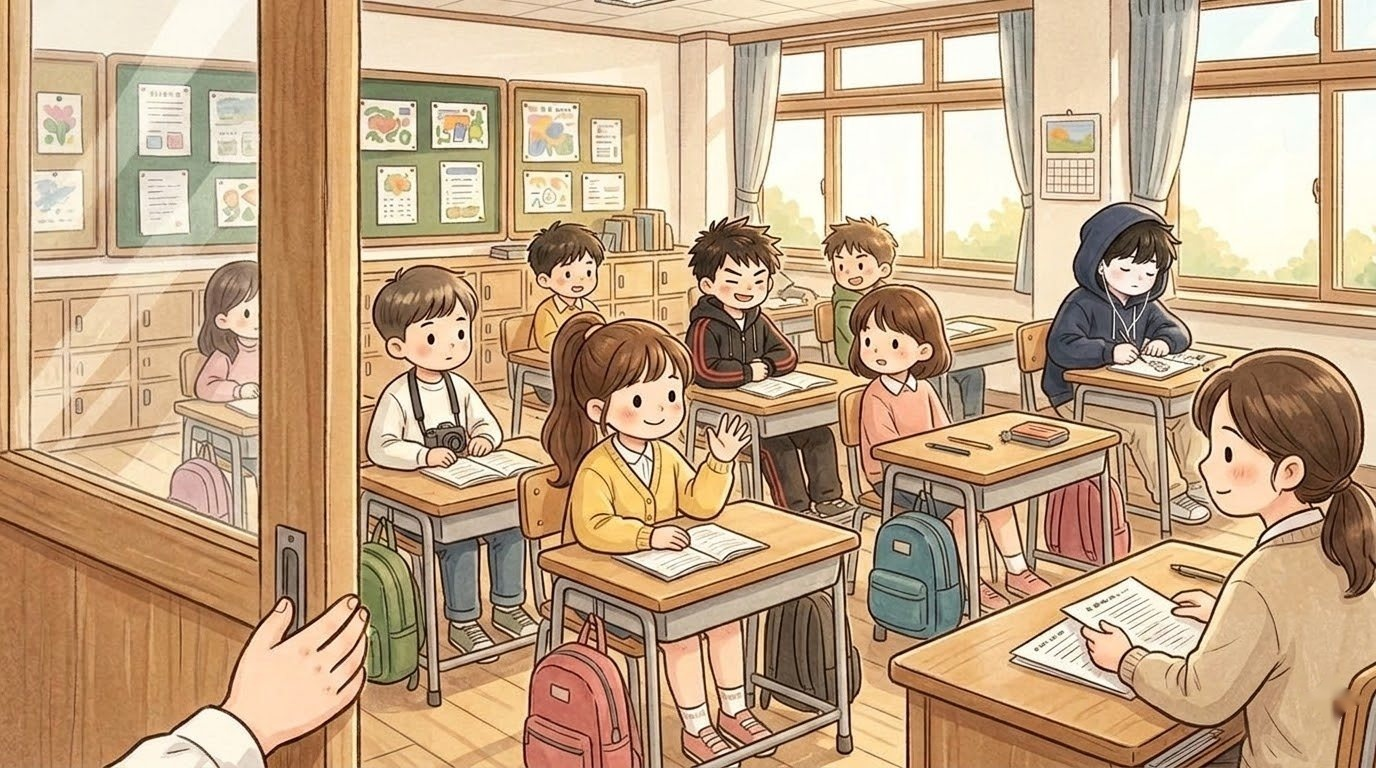
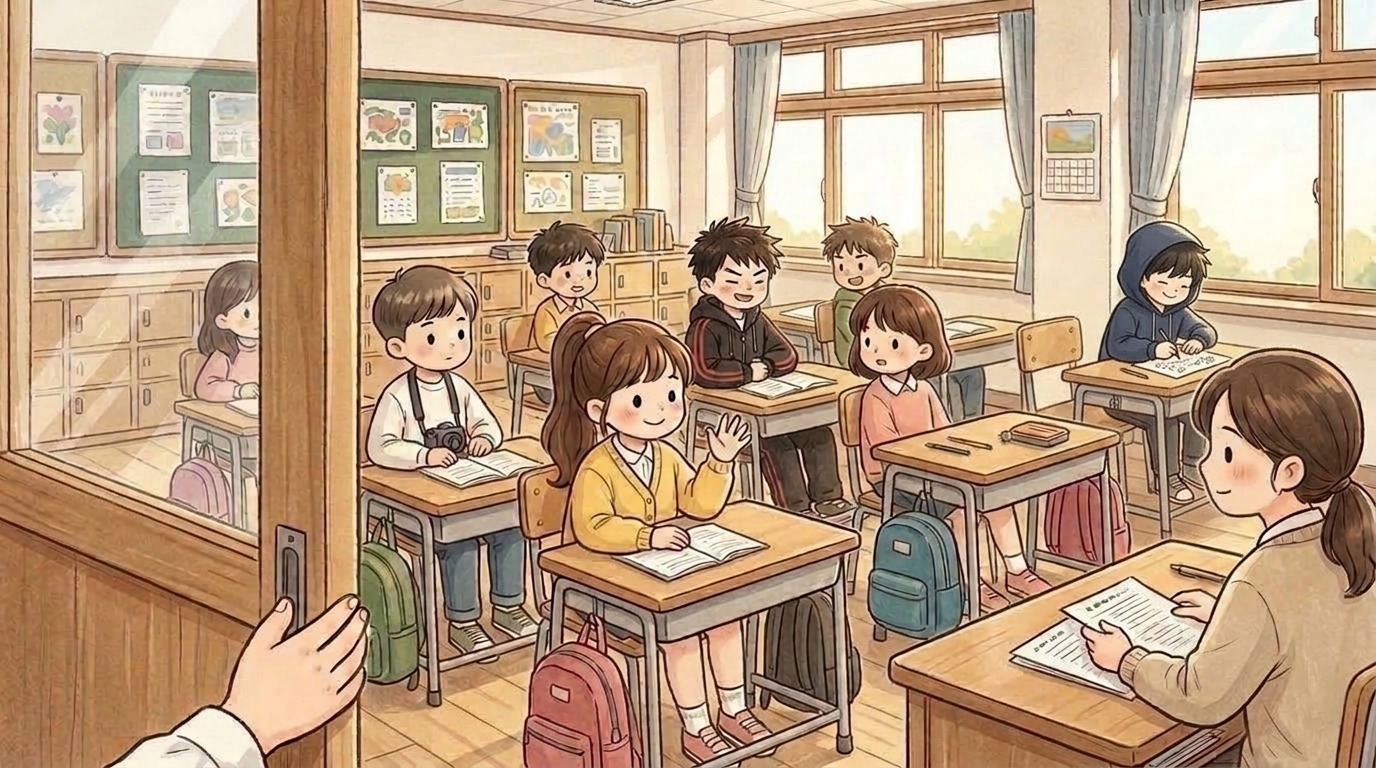
하늘 16일차(붙여도 돼?) 교실 들어서는 그림: 가운데 줄에 있던 하늘이를 대사대로 맨 뒤 창가 구석 자리로(API)

diff --git a/index.html b/index.html
@@ -119,14 +119,14 @@ body,button{word-break:keep-all;overflow-wrap:break-word}
 <div id="fader"></div>
 <script>
 // same address, newest version: if the page this phone has kept is older than the one online, fetch the new one and reopen
-const BUILD='1108215505';
+const BUILD='1108220446';
 try{fetch(location.pathname,{cache:'no-store'}).then(r=>r.text()).then(t=>{const m=t.match(/const BUILD='(\d+)'/);if(m&&m[1]!==BUILD&&sessionStorage.getItem('upd')!==m[1]){sessionStorage.setItem('upd',m[1]);fetch(location.pathname,{cache:'reload'}).then(()=>location.reload())}}).catch(()=>{})}catch(e){}
 </script>
-<script src="i18n.js?v=1108215505"></script>
-<script src="i18n_prologue_v2.js?v=1108215505"></script>
-<script src="day2/i18n_engine.js?v=1108215505"></script>
-<script src="day2/data.js?v=1108215505"></script>
-<script src="day3/data.js?v=1108215505"></script>
+<script src="i18n.js?v=1108220446"></script>
+<script src="i18n_prologue_v2.js?v=1108220446"></script>
+<script src="day2/i18n_engine.js?v=1108220446"></script>
+<script src="day2/data.js?v=1108220446"></script>
+<script src="day3/data.js?v=1108220446"></script>
 <script>
 // ---------- data ----------
 const MW=1672,MH=941,KID=180;
@@ -569,36 +569,36 @@ function pickHero(){const m=document.getElementById('modal'),c=document.getEleme
  c.innerHTML=`<h2>${tr('전학생 반장되기')}</h2><p>${tr('한국말이 아직 서툰 전학생,<br>반장 선거에 나가다.')}</p><p style="margin-top:14px">${tr('누구로 할까요?')}</p>${(()=>{const s=loadSave();return s&&s.day>=2&&s.mode===UI+'-'+LANG?`<p><button class="big" id="cont">${tr('{n}일차부터 이어 하기').replace('{n}',s.day)}</button></p>`:''})()}<div class="pick heroes"><button data-h="hero_f"><img src="faces/hero_f_smile.jpg" alt="여자 주인공">${heroName(1)}</button><button data-h="hero_m"><img src="faces/hero_m_smile.jpg" alt="남자 주인공">${heroName(0)}</button></div>`;
  m.classList.add('on');{const cb=document.getElementById('cont');if(cb)cb.onclick=()=>{const s=loadSave();HERO=s.hero;Object.assign(HEART,s.heart||{});(s.found||[]).forEach(k=>FOUND.add(k));HEART_D1={...HEART};chime();(typeof contGame==='function'?contGame(s):startDay(Math.min(s.day,Object.keys(window.D3||{}).length?3:2)))}}c.querySelectorAll('.pick button').forEach(b=>b.onclick=()=>{HERO=b.dataset.h;m.classList.remove('on');chime();bgm('day');load('home_am');say([['nar','','이사 온 다음 날 아침. 아직 풀지 못한 상자들이 쌓여 있다.'],['think','sad','(오늘부터 새 학교야. 여기 말도 아직 서툰데…….)'],['think','smile','({m}한테 인사하고 학교 가야지.)']],morning)})}
 </script>
-<script src="day2/engine.js?v=1108215505"></script>
-<script src="day2/ep_minho.js?v=1108215505"></script>
-<script src="day2/meet.js?v=1108215505"></script>
-<script src="day2/ep_sua.js?v=1108215505"></script>
-<script src="day2/ep_hangyeol.js?v=1108215505"></script>
-<script src="day2/ep_siwoo.js?v=1108215505"></script>
-<script src="day2/ep_haram.js?v=1108215505"></script>
-<script src="day2/ep_jiho.js?v=1108215505"></script>
-<script src="day2/ep_hyeeun.js?v=1108215505"></script>
-<script src="day2/ep_haneul.js?v=1108215505"></script>
-<script src="day2/ep_junho.js?v=1108215505"></script>
-<script src="day2/ep_yuna.js?v=1108215505"></script>
-<script src="day2/ep_yena.js?v=1108215505"></script>
-<script src="day2/ep_haeun.js?v=1108215505"></script>
-<script src="day2/ep_youngmin.js?v=1108215505"></script>
-<script src="day2/ep_seah.js?v=1108215505"></script>
-<script src="day2/ep_jihoon.js?v=1108215505"></script>
-<script src="words_ja_ru.js?v=1108215505"></script>
-<script src="day2/mybag.js?v=1108215505"></script>
-<script src="day2/wordpics.js?v=1108215505"></script>
-<script src="day2/spots.js?v=1108215505"></script>
-<script src="day2/textfit.js?v=1108215505"></script>
-<script src="day2/tester.js?v=1108215505"></script>
-<script src="day2/ux.js?v=1108215505"></script>
-<script src="day2/tapword.js?v=1108215505"></script>
-<script src="day2/review.js?v=1108215505"></script>
-<script src="day2/plane.js?v=1108215505"></script>
-<script src="day2/bubble.js?v=1108215505"></script>
-<script src="day2/ep_ending.js?v=1108215505"></script>
-<script src="day2/ending.js?v=1108215505"></script>
+<script src="day2/engine.js?v=1108220446"></script>
+<script src="day2/ep_minho.js?v=1108220446"></script>
+<script src="day2/meet.js?v=1108220446"></script>
+<script src="day2/ep_sua.js?v=1108220446"></script>
+<script src="day2/ep_hangyeol.js?v=1108220446"></script>
+<script src="day2/ep_siwoo.js?v=1108220446"></script>
+<script src="day2/ep_haram.js?v=1108220446"></script>
+<script src="day2/ep_jiho.js?v=1108220446"></script>
+<script src="day2/ep_hyeeun.js?v=1108220446"></script>
+<script src="day2/ep_haneul.js?v=1108220446"></script>
+<script src="day2/ep_junho.js?v=1108220446"></script>
+<script src="day2/ep_yuna.js?v=1108220446"></script>
+<script src="day2/ep_yena.js?v=1108220446"></script>
+<script src="day2/ep_haeun.js?v=1108220446"></script>
+<script src="day2/ep_youngmin.js?v=1108220446"></script>
+<script src="day2/ep_seah.js?v=1108220446"></script>
+<script src="day2/ep_jihoon.js?v=1108220446"></script>
+<script src="words_ja_ru.js?v=1108220446"></script>
+<script src="day2/mybag.js?v=1108220446"></script>
+<script src="day2/wordpics.js?v=1108220446"></script>
+<script src="day2/spots.js?v=1108220446"></script>
+<script src="day2/textfit.js?v=1108220446"></script>
+<script src="day2/tester.js?v=1108220446"></script>
+<script src="day2/ux.js?v=1108220446"></script>
+<script src="day2/tapword.js?v=1108220446"></script>
+<script src="day2/review.js?v=1108220446"></script>
+<script src="day2/plane.js?v=1108220446"></script>
+<script src="day2/bubble.js?v=1108220446"></script>
+<script src="day2/ep_ending.js?v=1108220446"></script>
+<script src="day2/ending.js?v=1108220446"></script>
 <script>
 // the goal shows big for a few seconds, then folds into a small pill (tap it to open it again)
 {const g=document.getElementById('goal');let t=null;const big=()=>{g.classList.remove('mini');clearTimeout(t);t=setTimeout(()=>g.classList.add('mini'),4000)};
